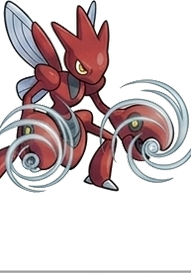
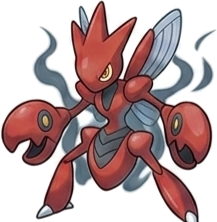
Fix HUD overlap + grounded Scizor idle
- Move both duel energy bars to y=90 so they no longer sit under the pause/speaker
  buttons (top-right, y~18-78).
- Replace the Scizor idle with the supplied grounded standing sprite (sciz_idle.png),
  feet-anchored (smoke wisps below the talons cropped) so he stands on the cavern
  floor instead of floating. Used for the pre-battle + between-move idle.

diff --git a/sparkrunmath.html b/sparkrunmath.html
@@ -2319,8 +2319,9 @@ function drawEnergyBar(x,y,w,label,hp,colA,colB,right){
   g.restore(); g.textAlign='left'; g.textBaseline='alphabetic';
 }
 function drawDuelBars(){
-  drawEnergyBar(16, 60, 300, 'PIKACHU', pikaHP, '#ffe14a', '#caa400', false);
-  drawEnergyBar(W-316, 60, 300, (boss.cfg.name||'GYARADOS').toUpperCase(), boss.hp, '#6fc0f0', '#2f6fa6', true);
+  // y=90 keeps the bars clear of the pause/speaker buttons (which occupy y≈18–78 top-right)
+  drawEnergyBar(16, 90, 300, 'PIKACHU', pikaHP, '#ffe14a', '#caa400', false);
+  drawEnergyBar(W-316, 90, 300, (boss.cfg.name||'GYARADOS').toUpperCase(), boss.hp, '#6fc0f0', '#2f6fa6', true);
 }
 function drawDuel(){
   const sc = boss.cfg.duel || scenePreview;   // scenePreview lets the dev menu show a scene before its duel is built
